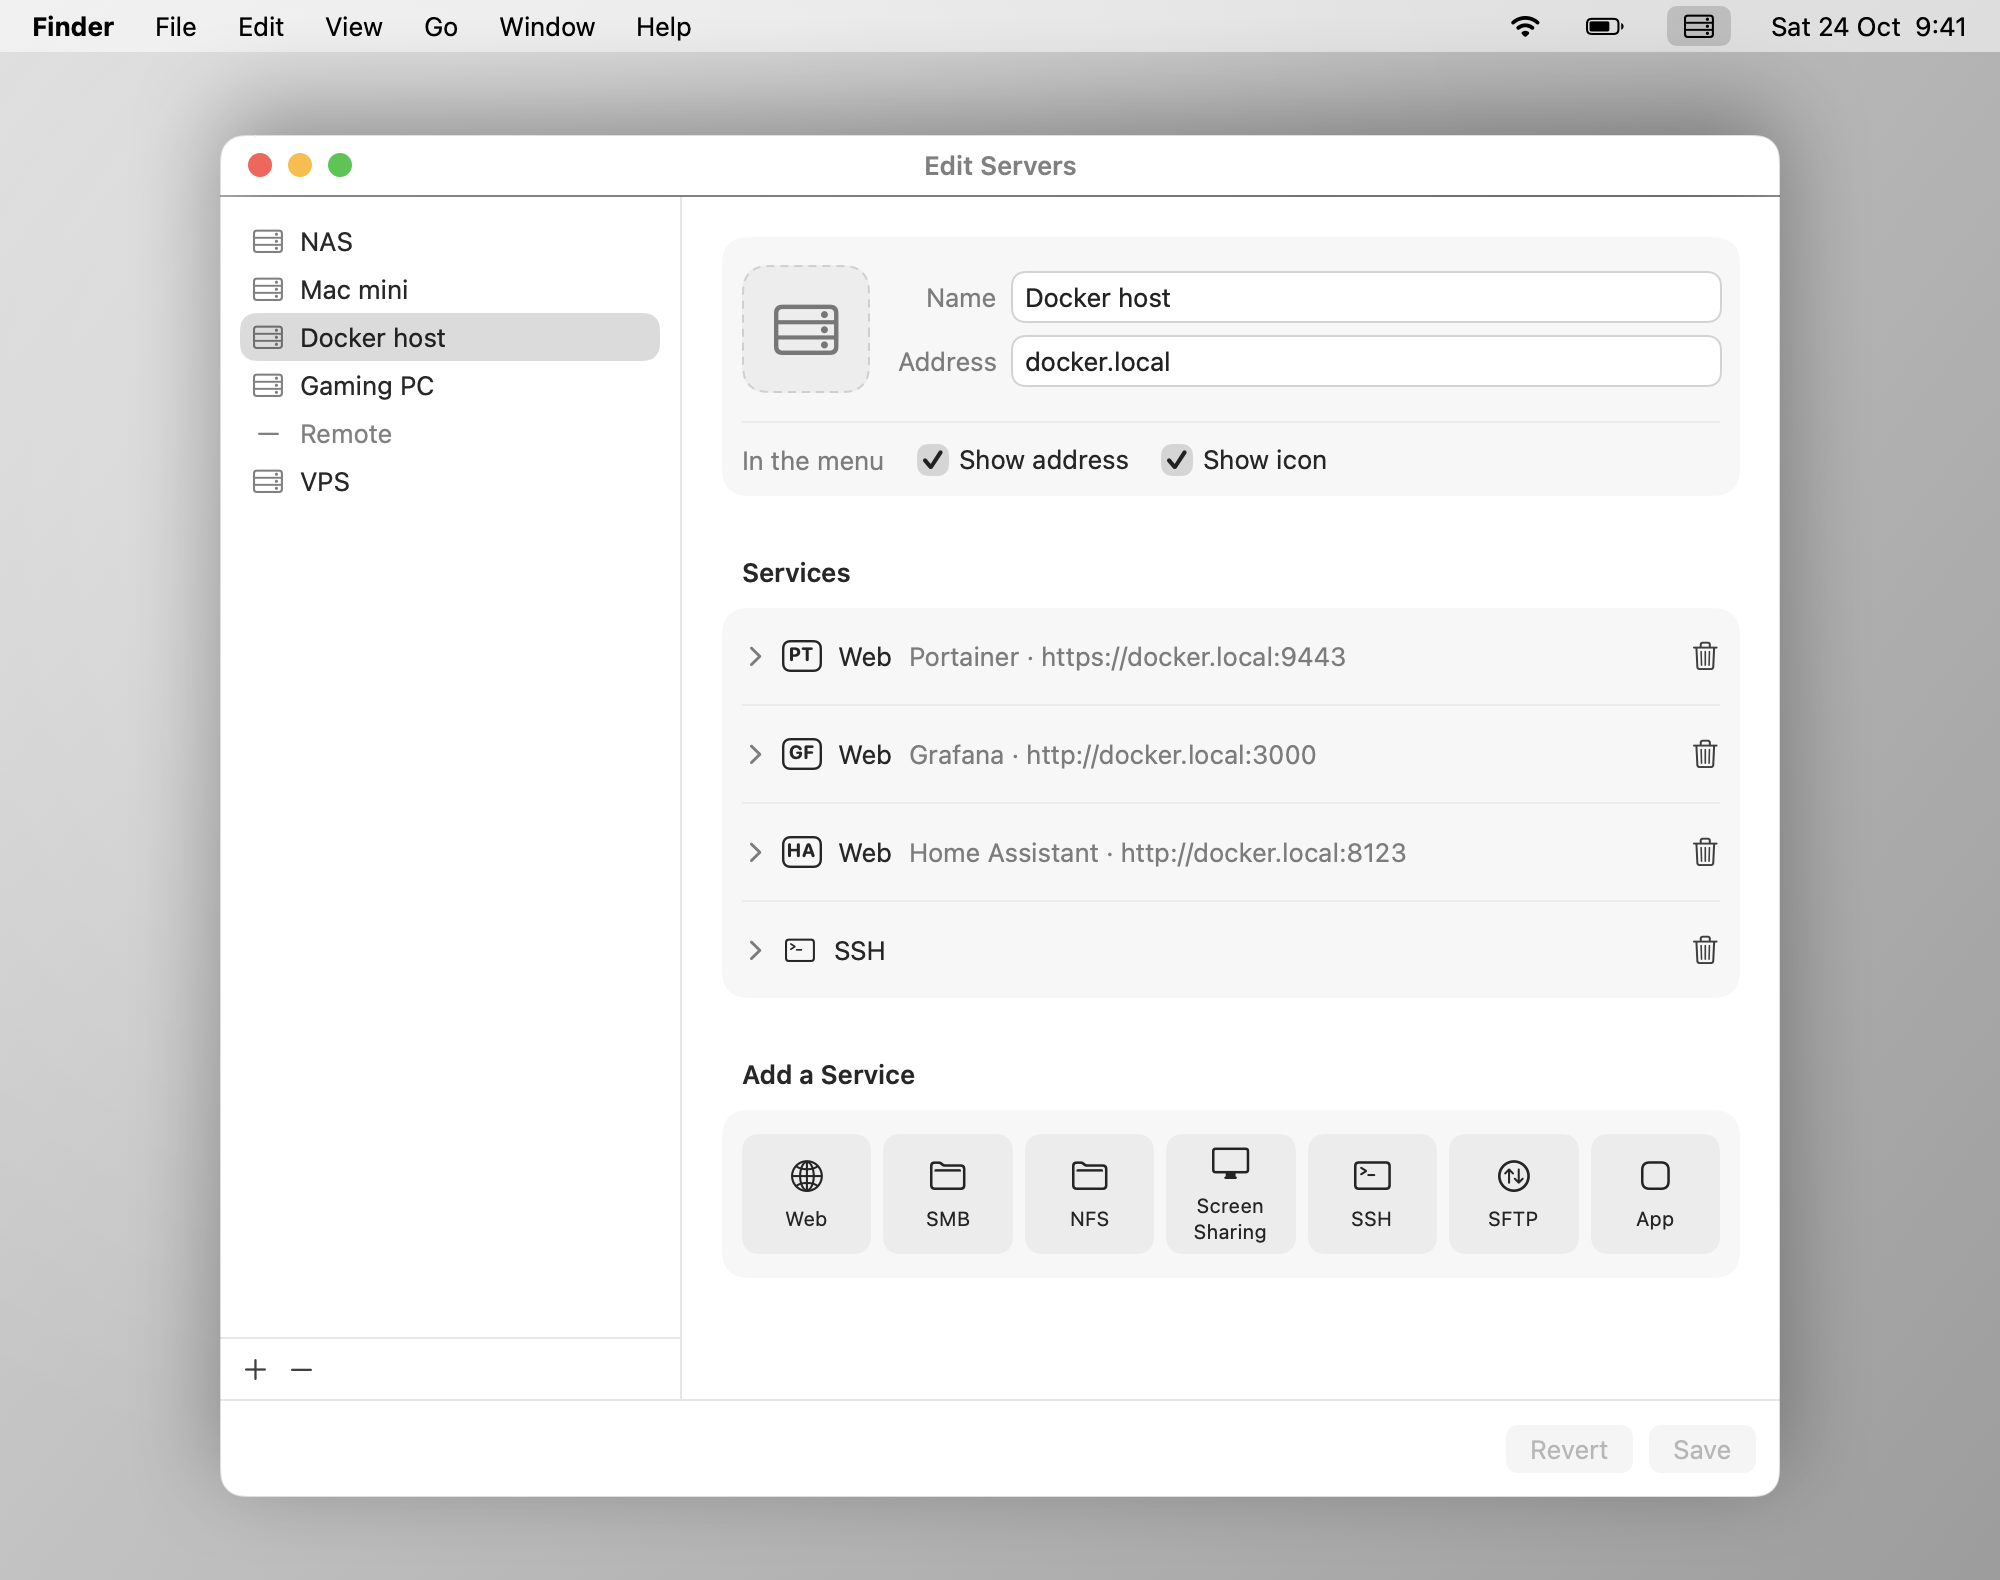
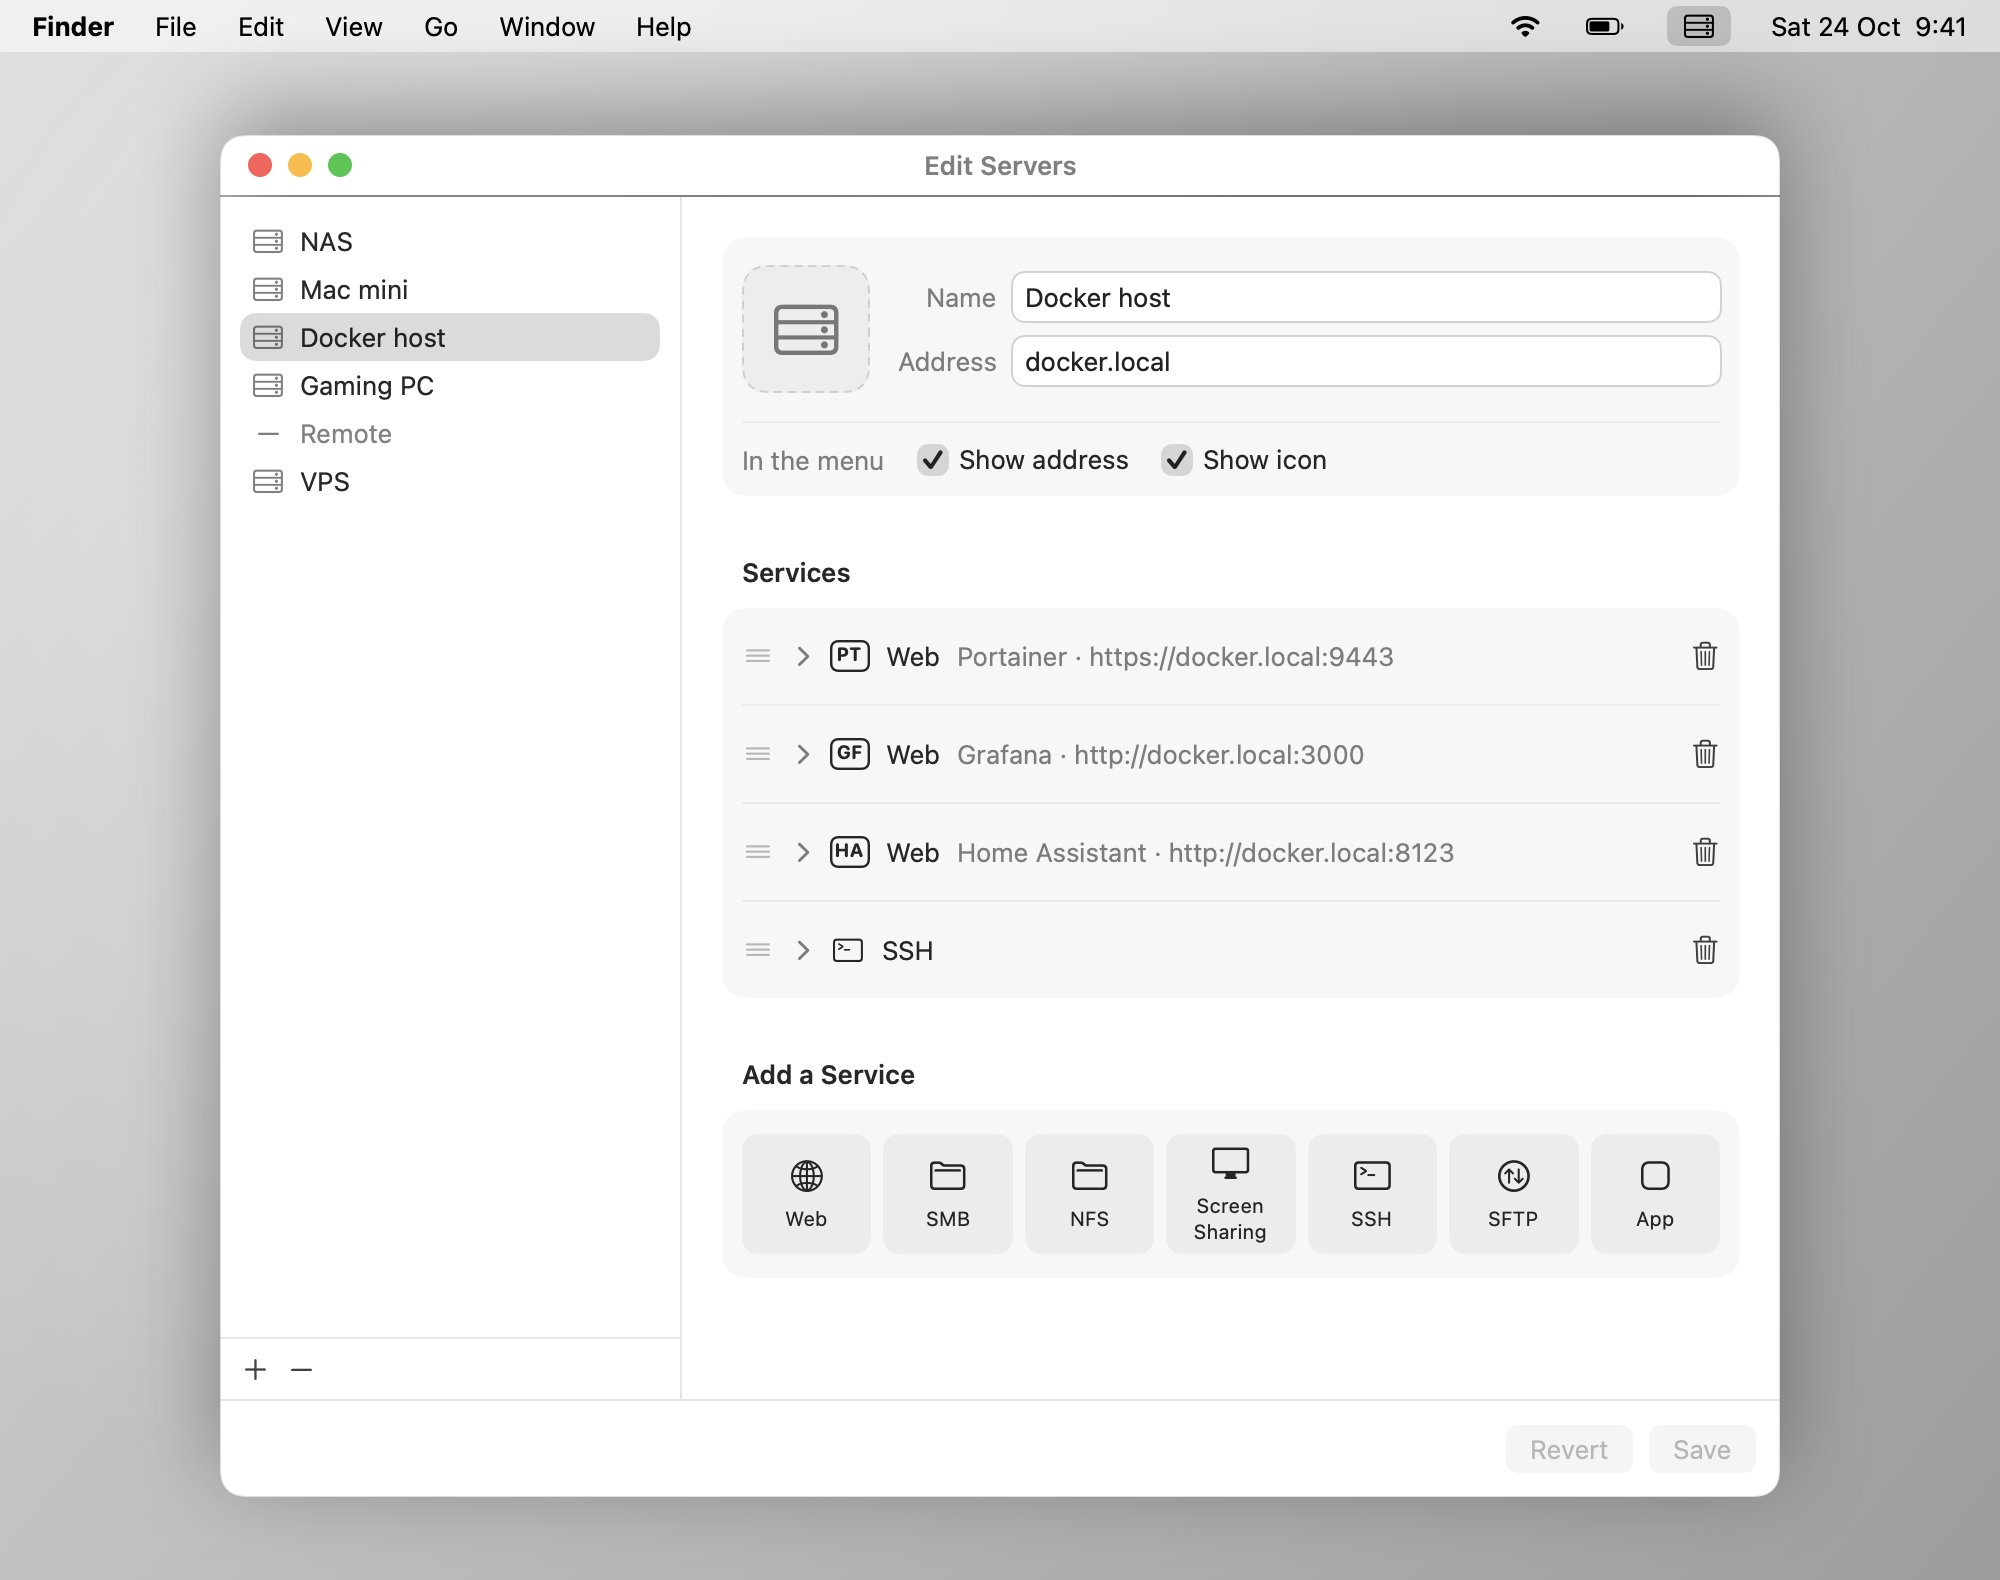
Reorder services with a grab handle
Each service row in Edit Servers has a ☰ handle; drag it onto another row to
move the service there (rows shuffle live). The move is EditorItem.moveService,
covered by tests.

diff --git a/Sources/Lanyard/ConfigEditorView.swift b/Sources/Lanyard/ConfigEditorView.swift
@@ -160,6 +160,7 @@ struct EditorBottomBar: View {
 
 struct ServerEditor: View {
     @Binding var item: EditorItem
+    @State private var dragging: EditorService.ID?
 
     var body: some View {
         Form {
@@ -199,9 +200,18 @@ struct ServerEditor: View {
                         .foregroundStyle(.secondary)
                 }
                 ForEach(item.services) { service in
-                    ServiceEditor(service: binding(for: service), serverAddress: item.host, badgeClash: item.badgeClash(for: service)?.title) {
+                    ServiceEditor(
+                        service: binding(for: service),
+                        serverAddress: item.host,
+                        badgeClash: item.badgeClash(for: service)?.title,
+                        onDragStart: {
+                            dragging = service.id
+                            return NSItemProvider(object: service.id.uuidString as NSString)
+                        }
+                    ) {
                         item.services.removeAll { $0.id == service.id }
                     }
+                    .onDrop(of: [.text], delegate: ServiceDropDelegate(target: service.id, item: $item, dragging: $dragging))
                 }
             } header: {
                 Text("Services")
@@ -279,6 +289,7 @@ struct ServiceEditor: View {
     @Binding var service: EditorService
     var badgeClash: String?
     var serverAddress = ""
+    var onDragStart: (() -> NSItemProvider)?
     var onDelete: () -> Void
     @State private var showOptions: Bool
     @State private var useBadge: Bool
@@ -288,11 +299,13 @@ struct ServiceEditor: View {
         serverAddress: String = "",
         badgeClash: String? = nil,
         startExpanded: Bool = false,
+        onDragStart: (() -> NSItemProvider)? = nil,
         onDelete: @escaping () -> Void
     ) {
         _service = service
         self.serverAddress = serverAddress
         self.badgeClash = badgeClash
+        self.onDragStart = onDragStart
         // A new app service starts open so its app can be chosen.
         _showOptions = State(initialValue: startExpanded || (service.wrappedValue.kind == .app && service.wrappedValue.bundle.isEmpty))
         _useBadge = State(initialValue: service.wrappedValue.showsBadge)
@@ -310,6 +323,16 @@ struct ServiceEditor: View {
     var body: some View {
         VStack(alignment: .leading, spacing: 10) {
             HStack(spacing: 8) {
+                if let onDragStart {
+                    Image(systemName: "line.3.horizontal")
+                        .font(.system(size: 12, weight: .medium))
+                        .foregroundStyle(.tertiary)
+                        .frame(width: 16, height: 20)
+                        .contentShape(Rectangle())
+                        .onDrag(onDragStart)
+                        .help("Drag to reorder")
+                        .accessibilityLabel("Reorder")
+                }
                 Image(systemName: "chevron.right")
                     .font(.system(size: 11, weight: .semibold))
                     .foregroundStyle(.secondary)
@@ -579,5 +602,26 @@ struct AppIcon: View {
                 .font(.system(size: size * 0.8))
                 .frame(width: size, height: size)
         }
+    }
+}
+
+/// Moves the dragged service into the row it's dragged over, so rows shuffle live.
+private struct ServiceDropDelegate: DropDelegate {
+    let target: EditorService.ID
+    @Binding var item: EditorItem
+    @Binding var dragging: EditorService.ID?
+
+    func dropEntered(info: DropInfo) {
+        guard let dragging else { return }
+        withAnimation(.easeInOut(duration: 0.15)) { item.moveService(dragging, to: target) }
+    }
+
+    func dropUpdated(info: DropInfo) -> DropProposal? {
+        DropProposal(operation: .move)
+    }
+
+    func performDrop(info: DropInfo) -> Bool {
+        dragging = nil
+        return true
     }
 }

diff --git a/Tests/LanyardTests/ConfigTests.swift b/Tests/LanyardTests/ConfigTests.swift
@@ -425,3 +425,17 @@ final class AppearanceModeTests: XCTestCase {
         XCTAssertEqual(AppearanceMode.dark.appearanceName, "NSAppearanceNameDarkAqua")
     }
 }
+
+final class ServiceOrderTests: XCTestCase {
+    func testMovingServices() {
+        let a = EditorService(kind: .web), b = EditorService(kind: .smb), c = EditorService(kind: .ssh)
+        var item = EditorItem(services: [a, b, c])
+        item.moveService(a.id, to: c.id)
+        XCTAssertEqual(item.services.map(\.kind), [.smb, .ssh, .web], "down onto the last row")
+        item.moveService(a.id, to: b.id)
+        XCTAssertEqual(item.services.map(\.kind), [.web, .smb, .ssh], "up onto the first row")
+        item.moveService(b.id, to: b.id)
+        item.moveService(UUID(), to: b.id)
+        XCTAssertEqual(item.services.map(\.kind), [.web, .smb, .ssh], "no-ops leave the order alone")
+    }
+}

diff --git a/Sources/Lanyard/EditorModel.swift b/Sources/Lanyard/EditorModel.swift
@@ -57,6 +57,14 @@ struct EditorItem: Identifiable, Equatable {
     }
 
     /// Another service on this server showing the same badge, which would be ambiguous in the menu.
+    /// Moves a service into another's place, as dragging one row onto another does.
+    mutating func moveService(_ id: EditorService.ID, to target: EditorService.ID) {
+        guard id != target,
+              let from = services.firstIndex(where: { $0.id == id }),
+              let to = services.firstIndex(where: { $0.id == target }) else { return }
+        services.move(fromOffsets: IndexSet(integer: from), toOffset: to > from ? to + 1 : to)
+    }
+
     func badgeClash(for service: EditorService) -> EditorService? {
         guard !service.badge.isEmpty else { return nil }
         return services.first { $0.id != service.id && $0.badge.lowercased() == service.badge.lowercased() }

diff --git a/Tests/LanyardTests/SnapshotTests.swift b/Tests/LanyardTests/SnapshotTests.swift
@@ -115,7 +115,7 @@ final class SnapshotTests: XCTestCase {
         let ssh = EditorService(kind: .ssh, url: "ssh://admin@docker.local")
         let form = Form {
             Section("Services") {
-                ServiceEditor(service: .constant(web), serverAddress: "docker.local", startExpanded: true) {}
+                ServiceEditor(service: .constant(web), serverAddress: "docker.local", startExpanded: true, onDragStart: { NSItemProvider() }) {}
                 ServiceEditor(service: .constant(ssh), serverAddress: "docker.local", startExpanded: true) {}
                 ServiceEditor(service: .constant(EditorService(kind: .smb)), serverAddress: "docker.local", startExpanded: true) {}
             }
